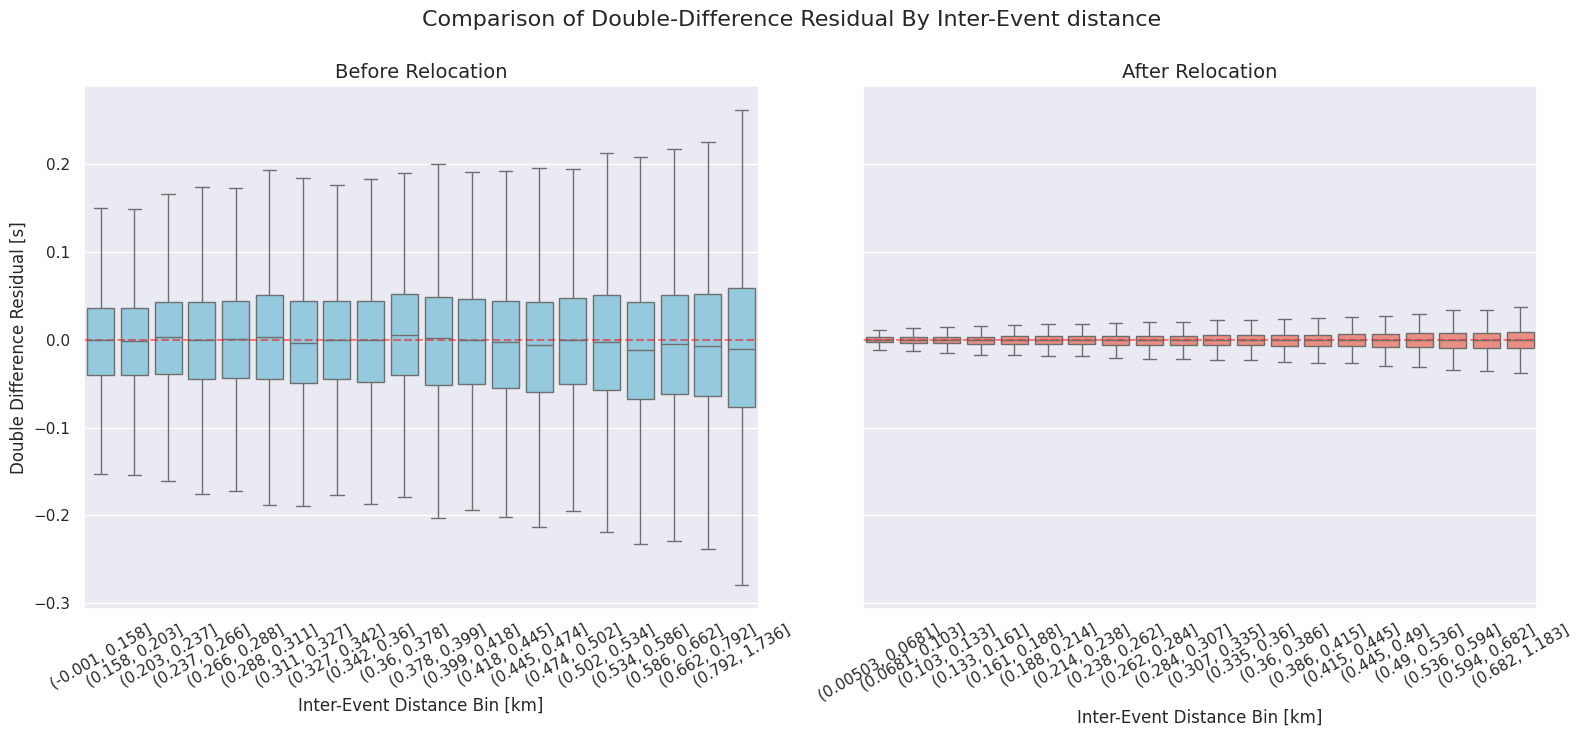
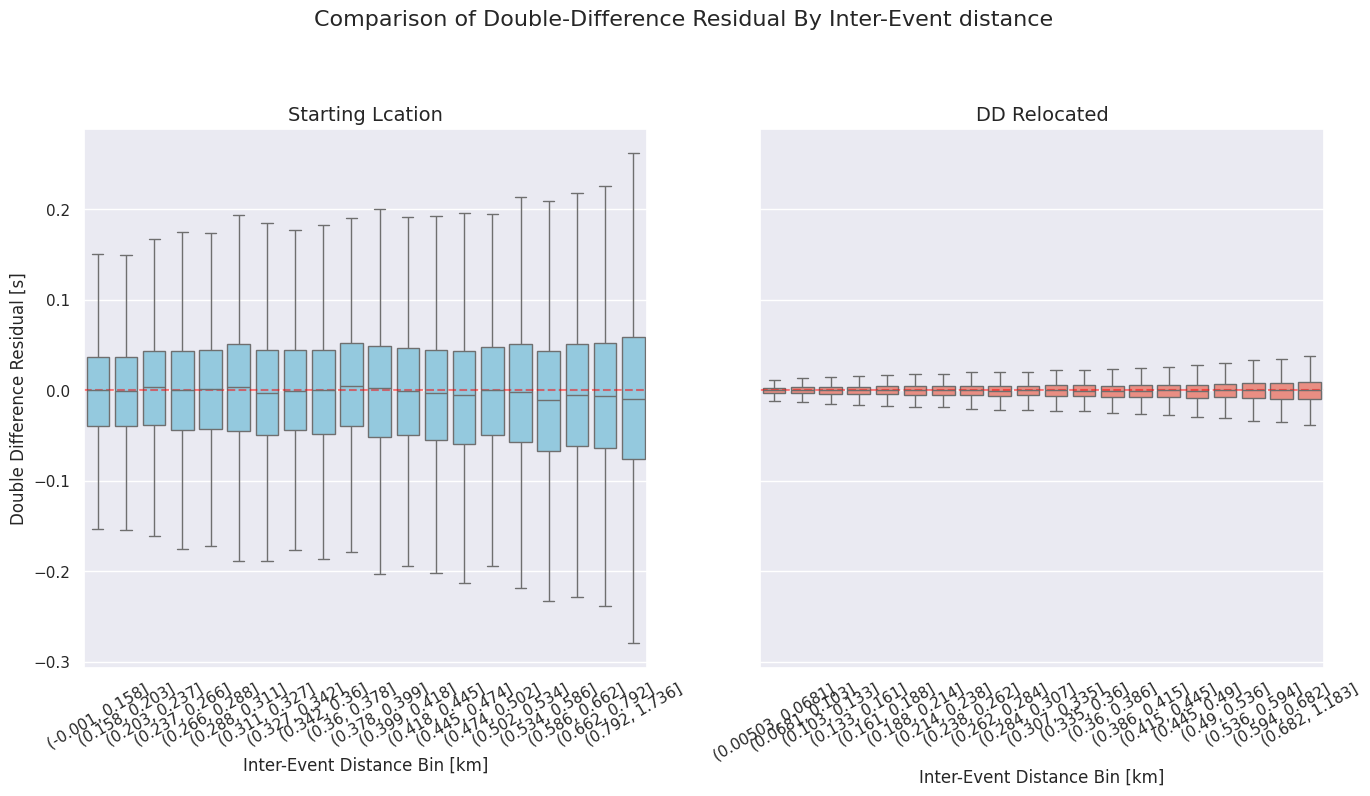
ENH: add plot-dd.py and plot-rms.py for relocation QC evaluation

diff --git a/scripts/plot-dd.py b/scripts/plot-dd.py
@@ -1,0 +1,80 @@
+#!/usr/bin/env python3
+
+import pandas as pd
+import seaborn as sns
+import matplotlib.pyplot as plt
+import numpy as np
+import sys
+
+sns.set_theme(style="darkgrid")
+
+def visualize_split_boxplots(file1_path, file2_path, num_bins=5, isXcorr=False):
+
+    # Load data
+    df1 = pd.read_csv(file1_path)
+    df2 = pd.read_csv(file2_path)
+
+    # Sort by distance first so the bin labels are created in order
+    df1 = df1.sort_values('interEventDistance').reset_index(drop=True)
+    df2 = df2.sort_values('interEventDistance').reset_index(drop=True)
+
+    # Apply Equal-Frequency Binning (Quantiles) independently
+    # pd.qcut divides the data into bins containing the same number of points
+    # Create bins - keep as categorical to preserve mathematical order
+    df1['DistBin'] = pd.qcut(df1['interEventDistance'], q=num_bins, duplicates='drop')
+    df2['DistBin'] = pd.qcut(df2['interEventDistance'], q=num_bins, duplicates='drop')
+
+    # Get the unique bins in the order they appear in the sorted data
+    bin_order1 = df1['DistBin'].unique()
+    bin_order2 = df2['DistBin'].unique()
+
+    # Setup Side-by-Side Figure
+    fig, axes = plt.subplots(1, 2, figsize=(16, 7), sharey=True)
+    sns.set_theme(style="whitegrid")
+
+    # Plot File 1
+    sns.boxplot(
+        ax=axes[0],
+        data=df1,
+        x='DistBin',
+        y=('xcorrCoefficient' if isXcorr else 'doubleDifferenceResidual'),
+        order=bin_order1, # Explicitly force the sorted order
+        showfliers=False,
+        color="skyblue"
+    )
+    axes[0].set_title('Starting Lcation', fontsize=14)
+    axes[0].set_xlabel('Inter-Event Distance Bin [km]')
+    axes[0].set_ylabel('Correlation Coefficient' if isXcorr else 'Double Difference Residual [s]')
+    axes[0].tick_params(axis='x', rotation=30)
+    # Add a dashed line at zero for reference
+    axes[0].axhline(0, color='red', linestyle='--', alpha=0.5)
+
+    # Plot File 2
+    sns.boxplot(
+        ax=axes[1],
+        data=df2,
+        x='DistBin',
+        y=('xcorrCoefficient' if isXcorr else 'doubleDifferenceResidual'),
+        order=bin_order2, # Explicitly force the sorted order
+        showfliers=False,
+        color="salmon"
+    )
+    axes[1].set_title('DD Relocated', fontsize=14)
+    axes[1].set_xlabel('Inter-Event Distance Bin [km]')
+    axes[1].set_ylabel('')
+    axes[1].tick_params(axis='x', rotation=30)
+    axes[1].axhline(0, color='red', linestyle='--', alpha=0.5)
+
+    if isXcorr:
+        plt.suptitle('Comparison of Correlation Coefficient By Inter-Event distance', fontsize=16, y=1.05)
+    else:
+        plt.suptitle('Comparison of Double-Difference Residual By Inter-Event distance', fontsize=16, y=1.05)
+
+    fig.savefig('xcorr-comparison.png'  if isXcorr else 'dd-comparison.png', bbox_inches='tight')
+
+if len(sys.argv) != 3:
+    print("plot-dd.py cluster-1-initial-double-difference.csv cluster-1-final-double-difference.csv")
+    exit(0)
+
+visualize_split_boxplots(sys.argv[1], sys.argv[2], num_bins=20, isXcorr=False)
+visualize_split_boxplots(sys.argv[1], sys.argv[2], num_bins=20, isXcorr=True)

diff --git a/scripts/plot-rms.py b/scripts/plot-rms.py
@@ -1,0 +1,50 @@
+#!/usr/bin/env python3
+
+import pandas as pd
+import matplotlib.pyplot as plt
+import numpy as np
+import sys
+
+if len(sys.argv) != 2:
+    print("plot-rms.py reloc-event.csv")
+    exit(0)
+
+# Load the data
+df = pd.read_csv(sys.argv[1])
+
+# Define common bins for both datasets
+min_rms = min(df['startRms'].min(), df['finalRms'].min())
+max_rms = max(df['startRms'].max(), df['finalRms'].max())
+bins = np.linspace(min_rms, max_rms, 20)  # 20 bins
+
+# Calculate the histogram counts for both
+start_counts, _ = np.histogram(df['startRms'], bins=bins)
+final_counts, _ = np.histogram(df['finalRms'], bins=bins)
+
+# Convert counts to cumulative percentages
+start_cum_pct = np.cumsum(start_counts) / len(df) * 100
+final_cum_pct = np.cumsum(final_counts) / len(df) * 100
+
+# Bar chart setup
+bin_centers = (bins[:-1] + bins[1:]) / 2
+width = (bins[1] - bins[0]) * 0.35  # Adjusted width of the bars
+
+plt.figure(figsize=(10, 6))
+
+# Plot the bars side-by-side
+# We shift startRms left and finalRms right by half the width
+plt.bar(bin_centers - width/2, start_cum_pct, width=width, 
+        label='startRms', color='skyblue', edgecolor='black', alpha=0.8)
+
+plt.bar(bin_centers + width/2, final_cum_pct, width=width, 
+        label='finalRms', color='salmon', edgecolor='black', alpha=0.8)
+
+plt.title('Cumulative RMS Histogram: Starting Lcation vs DD Relocated')
+plt.xlabel('RMS [s]')
+plt.ylabel('Percentage of Events (%)')
+plt.xticks(bins.round(3), rotation=45) # Show bin edges on x-axis
+plt.legend(loc='upper left')
+plt.grid(axis='y', linestyle='--', alpha=0.6)
+plt.ylim(0, 110)
+
+plt.savefig('rms-comparison.png')

diff --git a/scripts/compare-catalogs.py b/scripts/compare-catalogs.py
@@ -1,4 +1,4 @@
-#!/usr/bin/python3
+#!/usr/bin/env python3
 
 import sys
 import math
